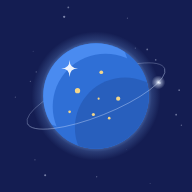
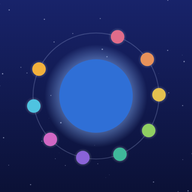
LAPIS: アイコンを「公転する星たち」に変更
Claude-Session: https://claude.ai/code/session_013kTsaggQbE5J8PEFawtjNx

diff --git a/index.html b/index.html
@@ -200,7 +200,7 @@ body.onTitle #app{visibility:hidden}
 {
 const VER='0.5.1';
 const CHANGES=[
-  ['0.5.1','2026-11-23',['🪐 星たちの公転をさらにゆっくり(約3分で1周)にしました','🌠 背景の空を、たまに流れ星が流れます。ときどき人工衛星も。ごくまれに、何かが通りすぎるかも']],
+  ['0.5.1','2026-11-23',['🎨 アイコンを新しくしました。青い星のまわりを、色とりどりの星がまわります','🪐 星たちの公転をさらにゆっくり(約3分で1周)にしました','🌠 背景の空を、たまに流れ星が流れます。ときどき人工衛星も。ごくまれに、何かが通りすぎるかも']],
   ['0.5.0','2026-11-23',['🎵 BGMを、遠いパッドとやわらかいエレピのチルな曲にしました','🪐 星を少し小さくして、宇宙の余白と軌道が見えるようにしました。星たちは約1分半で中心を1周します','🥂 合体の音を、グラスを軽く当てたような澄んだ音に。連鎖すると流れている曲の和音で上がっていきます','✨ 連鎖すると軌道を光が走ります。置いたときは軌道に小さな波紋。大きな連鎖は一瞬ためてから弾けます','🌌 銀河(18)を超えると宇宙が膨張し、彗星が少しずつ減ってチリが増えます。20番台がいつまでも続かないようにしました']],
   ['0.4.2','2026-11-23',['☄ 彗星やワームホールはそのままに、200手を過ぎると「宇宙のチリ」が少しずつ降り積もるようにしました。だんだん輪が埋まり、ひと宇宙に終わりが来ます','📖 節目の星(岩の惑星・若い星・巨星・ブラックホール・銀河)に届くと、章が進みます']],
   ['0.4.1','2026-11-23',['🌌 ゲームオーバーの演出を「重力崩壊」にしました。星が中心へ吸い込まれ、光ってから、育てた宇宙をふり返ります','✨ 結果画面に、その回ではじめて見つけた星が並ぶようにしました']],

diff --git a/sw.js b/sw.js
@@ -1,5 +1,5 @@
 // LAPIS: offline cache. Network first so updates arrive; cache as fallback.
-const C='lapis-v18',FILES=['./','./index.html','./manifest.json','./icon-192.png','./icon-512.png'];
+const C='lapis-v19',FILES=['./','./index.html','./manifest.json','./icon-192.png','./icon-512.png'];
 self.addEventListener('install',e=>{e.waitUntil(caches.open(C).then(c=>c.addAll(FILES)));self.skipWaiting();});
 self.addEventListener('activate',e=>{e.waitUntil(caches.keys().then(ks=>Promise.all(ks.filter(k=>k.startsWith('lapis-')&&k!==C).map(k=>caches.delete(k)))));self.clients.claim();});
 self.addEventListener('fetch',e=>{if(e.request.method!=='GET')return;
